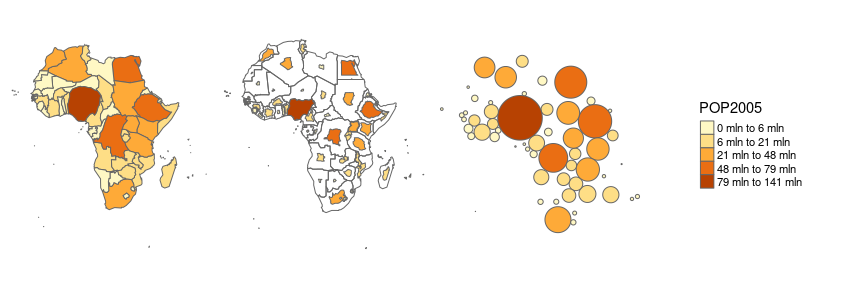
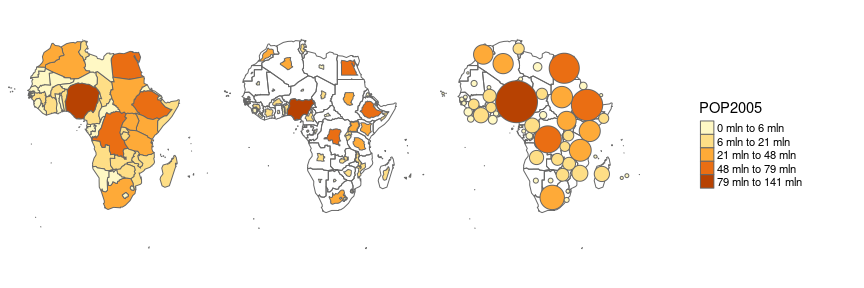
update Readme

Changed region(s): [[0.5, 0.125, 0.75, 0.8125], [0.0312, 0.125, 0.2188, 0.7188]]

diff --git a/README.md b/README.md
@@ -29,7 +29,7 @@ devtools::install_github("sjewo/cartogram")
 
 ## NEWS
 
-  - \[0.1.0\] Non-Overlapping Circles Cartogram (sf and sp)
+  - \[0.1.0\] Non-Overlapping Circles Cartogram (Dorling)
   - \[0.0.3\] sf support added
   - \[0.0.2\] Non-contiguous Area Cartogram
   - \[0.0.2\] Prepare data with missing or extreme values before
@@ -44,8 +44,6 @@ devtools::install_github("sjewo/cartogram")
 library(cartogram)
 library(tmap)
 library(maptools)
-#> Loading required package: sp
-#> Checking rgeos availability: TRUE
 
 data(wrld_simpl)
 
@@ -53,7 +51,7 @@ afr <- wrld_simpl[wrld_simpl$REGION == 2, ]
 afr <- spTransform(afr, CRS("+init=epsg:3395"))
 
 # construct cartogram
-afrc <- cartogram_cont(afr, "POP2005", itermax=5)
+afr_cont <- cartogram_cont(afr, "POP2005", itermax=5)
 #> Mean size error for iteration 1: 5.79457153280442
 #> Mean size error for iteration 2: 4.99349670513046
 #> Mean size error for iteration 3: 4.39148731971216
@@ -61,11 +59,11 @@ afrc <- cartogram_cont(afr, "POP2005", itermax=5)
 #> Mean size error for iteration 5: 3.56785782735669
 
 # plot it
-tm_shape(afrc) + tm_polygons("POP2005", style = "jenks") +
+tm_shape(afr_cont) + tm_polygons("POP2005", style = "jenks") +
   tm_layout(frame = FALSE)
 ```
 
-![](man/figures/README-carto-1.png)<!-- -->
+![](man/figures/README-cont-1.png)<!-- -->
 
 ### Non-contiguous Area Cartogram
 
@@ -73,31 +71,30 @@ Many thanks to @rCarto and @neocarto for contributing the code\!
 
 ``` r
 # construct cartogram
-afrnc <- cartogram_ncont(afr, "POP2005")
+afr_ncont <- cartogram_ncont(afr, "POP2005")
 
 # plot it
 tm_shape(afr) + tm_borders() +
-  tm_shape(afrnc) + tm_polygons("POP2005", style = "jenks") +
+  tm_shape(afr_ncont) + tm_polygons("POP2005", style = "jenks") +
   tm_layout(frame = FALSE)
 ```
 
-![](man/figures/README-nc-1.png)<!-- -->
-
-### Non-Overlapping Circles Cartogram
+![](man/figures/README-ncont-1.png)<!-- --> q \#\#\# Non-Overlapping
+Circles Cartogram
 
 Many thanks to @rCarto for contributing the code\!
 
 ``` r
 # construct cartogram
-afrnoc <- cartogram_noc(afr, "POP2005")
+afr_dorling <- cartogram_dorling(afr, "POP2005")
 
 # plot it
 tm_shape(afr) + tm_borders() +
-  tm_shape(afrnoc) + tm_polygons("POP2005", style = "jenks") +
+  tm_shape(afr_dorling) + tm_polygons("POP2005", style = "jenks") +
   tm_layout(frame = FALSE)
 ```
 
-![](man/figures/README-noc-1.png)<!-- -->
+![](man/figures/README-dorling-1.png)<!-- -->
 
 ## sf support
 
@@ -105,38 +102,38 @@ Thanks to @Nowosad for speeding things up\!
 
 ``` r
 library(sf)
-#> Linking to GEOS 3.6.2, GDAL 2.3.0, proj.4 5.0.1
 
 # Create an sf object
-afr_sf = st_as_sf(afr)
+afr_sf <- st_as_sf(afr)
 
 # Display plots in two columns
 par(mfrow = c(1, 2), mai = c(0, 0, 0, 0))
 
 # Continuous Area Cartogram
-afr_sf_carto <- cartogram_cont(afr_sf, "POP2005", 3)
+afr_sf_cont <- cartogram_cont(afr_sf, "POP2005", 3)
 #> Mean size error for iteration 1: 5.79457153280442
 #> Mean size error for iteration 2: 4.94825547349441
 #> Mean size error for iteration 3: 4.32626995057148
 
 # Non-contiguous Area Cartogram
-afr_sf_nc <- cartogram_ncont(afr_sf, "POP2005")
+afr_sf_ncont <- cartogram_ncont(afr_sf, "POP2005")
 
 # Non-overlapping Circles Cartogram
-afr_sf_noc <- cartogram_noc(afr_sf, "POP2005")
+afr_sf_dorling <- cartogram_dorling(afr_sf, "POP2005")
 
 # Plots
-m1 = tm_shape(afr_sf_carto) + tm_polygons("POP2005", style = "jenks", legend.show=FALSE) +
+m1 <- tm_shape(afr_sf_cont) + tm_polygons("POP2005", style = "jenks", legend.show=FALSE) +
   tm_layout(frame = FALSE)
 
-m2 = tm_shape(afr_sf) + tm_borders() + 
-  tm_shape(afr_sf_nc) + tm_polygons("POP2005", style = "jenks", legend.show=FALSE) +
+m2 <- tm_shape(afr_sf) + tm_borders() + 
+  tm_shape(afr_sf_ncont) + tm_polygons("POP2005", style = "jenks", legend.show=FALSE) +
   tm_layout(frame = FALSE)
 
-m3 = tm_shape(afr_sf_noc) + tm_polygons("POP2005", style = "jenks", legend.show=FALSE) +
+m3 <- tm_shape(afr_sf) + tm_borders() + 
+  tm_shape(afr_sf_dorling) + tm_polygons("POP2005", style = "jenks", legend.show=FALSE) +
   tm_layout(frame = FALSE, legend.outside=T)
 
-ml <- tm_shape(afr_sf_noc) + tm_polygons("POP2005", style = "jenks") +
+ml <- tm_shape(afr_sf_dorling) + tm_polygons("POP2005", style = "jenks") +
   tm_layout(frame = FALSE, legend.only=T, legend.position=c("center","center"))
 
 
